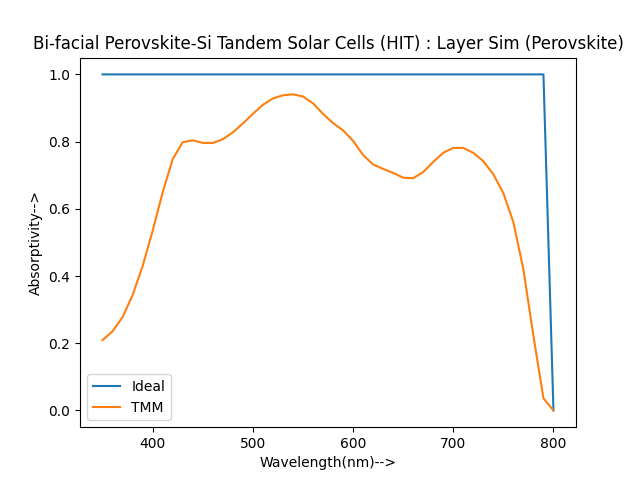
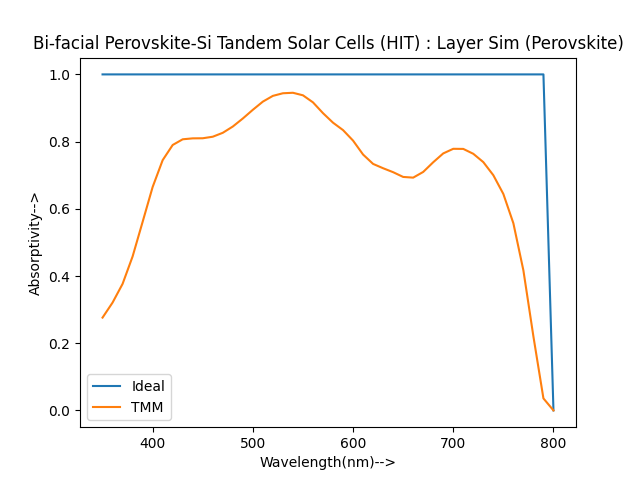
Fixes for tandem

diff --git a/Bifacial_Tandem/bifacial_tandem.py b/Bifacial_Tandem/bifacial_tandem.py
@@ -135,7 +135,7 @@ def a(lmda, thickness=W,case='null'):
         200, # ITO
         30, # TiO2 - etl
         W*1e9, # Perovskite
-        300, # Spiro-MeTAD - htl
+        300, # Spiro-OMeTAD - htl
         200, # ITO
         20, # a-Si(n)
         5, # a-Si(i) 
@@ -149,9 +149,9 @@ def a(lmda, thickness=W,case='null'):
         n_list = [1, 
         complex(1.5, K(lmda, mat='glass')), 
         complex(n(lmda, mat='tco'), K(lmda, mat='tco')), 
-        complex(n(lmda, mat='etl'), K(lmda, mat='htl')), 
+        complex(n(lmda, mat='etl'), K(lmda, mat='etl')), 
         complex(n(lmda), K(lmda)), 
-        complex(n(lmda, mat='htl'), K(lmda, mat='etl')), 
+        complex(n(lmda, mat='htl'), K(lmda, mat='htl')), 
         complex(n(lmda, mat='tco'), K(lmda, mat='tco')), 
         complex(n(lmda, mat='a-Si(n)'), K(lmda, mat='a-Si(n)')), 
         complex(n(lmda, mat='a-Si(i)'), K(lmda, mat='a-Si(i)')), 
@@ -164,7 +164,7 @@ def a(lmda, thickness=W,case='null'):
         c_tmm = coh_tmm('s',n_list,d_list,0,lmda*1e9) #in nm
         # return (1 - c_tmm['T'] - c_tmm['R']) # full-device absoptivity
         absp_layer = absorp_in_each_layer(c_tmm)
-        # return (1 - c_tmm['T'] - c_tmm['R']) * (absp_layer[4] / (1- absp_layer[0] -absp_layer[14])) # perovskite layer absorption
+        return (1 - c_tmm['T'] - c_tmm['R']) * (absp_layer[4] / (1- absp_layer[0] -absp_layer[14])) # perovskite layer absorption
         return (1 - c_tmm['T'] - c_tmm['R']) * (absp_layer[9] / (1- absp_layer[0] -absp_layer[14])) # c-Si layer absorption
     
     else:
@@ -185,8 +185,8 @@ def EQE(lmda, case):
 
 
 # Title = 'Bi-facial Perovskite-Si Tandem Solar Cells (HIT) : Device Sim'
-# Title = 'Bi-facial Perovskite-Si Tandem Solar Cells (HIT) : Layer Sim (Perovskite)'
-Title = 'Bi-facial Perovskite-Si Tandem Solar Cells (HIT) : Layer Sim (c-Si)'
+Title = 'Bi-facial Perovskite-Si Tandem Solar Cells (HIT) : Layer Sim (Perovskite)'
+# Title = 'Bi-facial Perovskite-Si Tandem Solar Cells (HIT) : Layer Sim (c-Si)'
 # Title = 'Bi-facial Perovskite-Si Tandem Solar Cells (HIT) : Reversed Device Sim'
 
 
